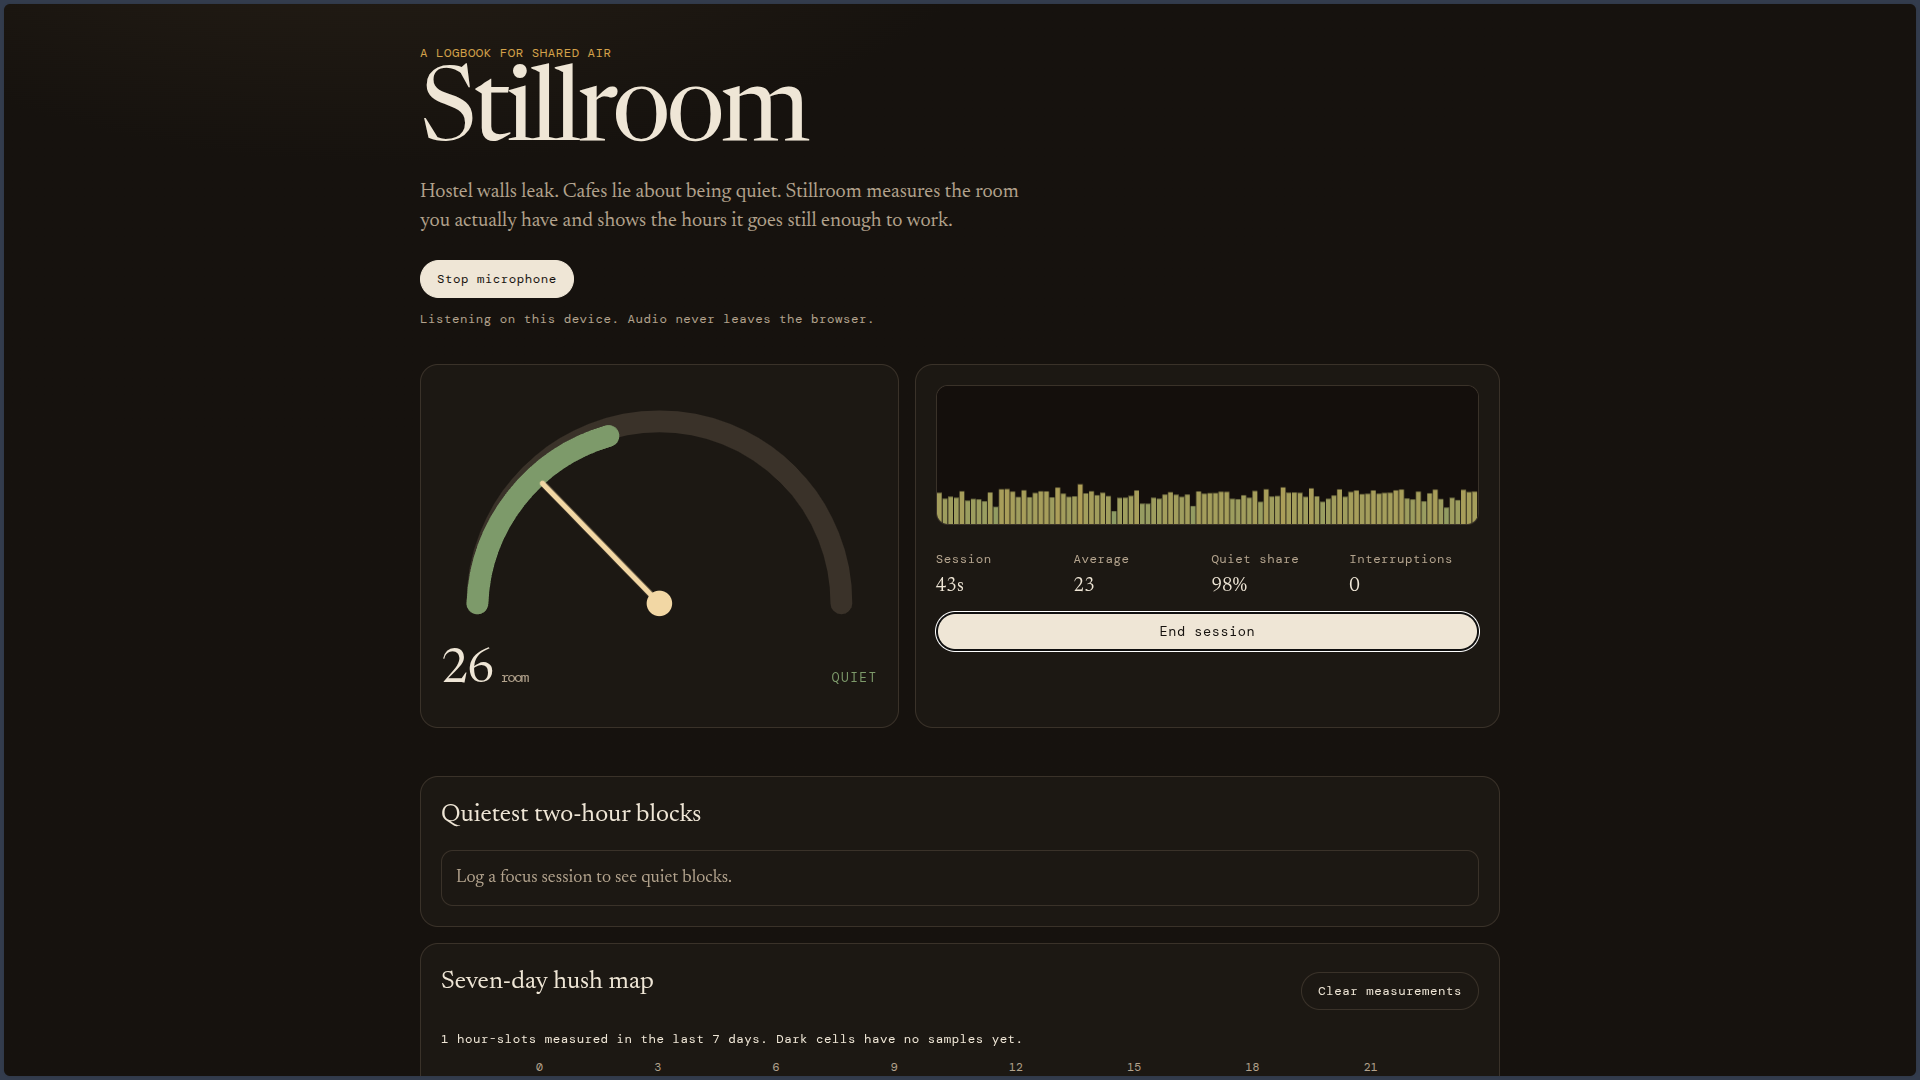
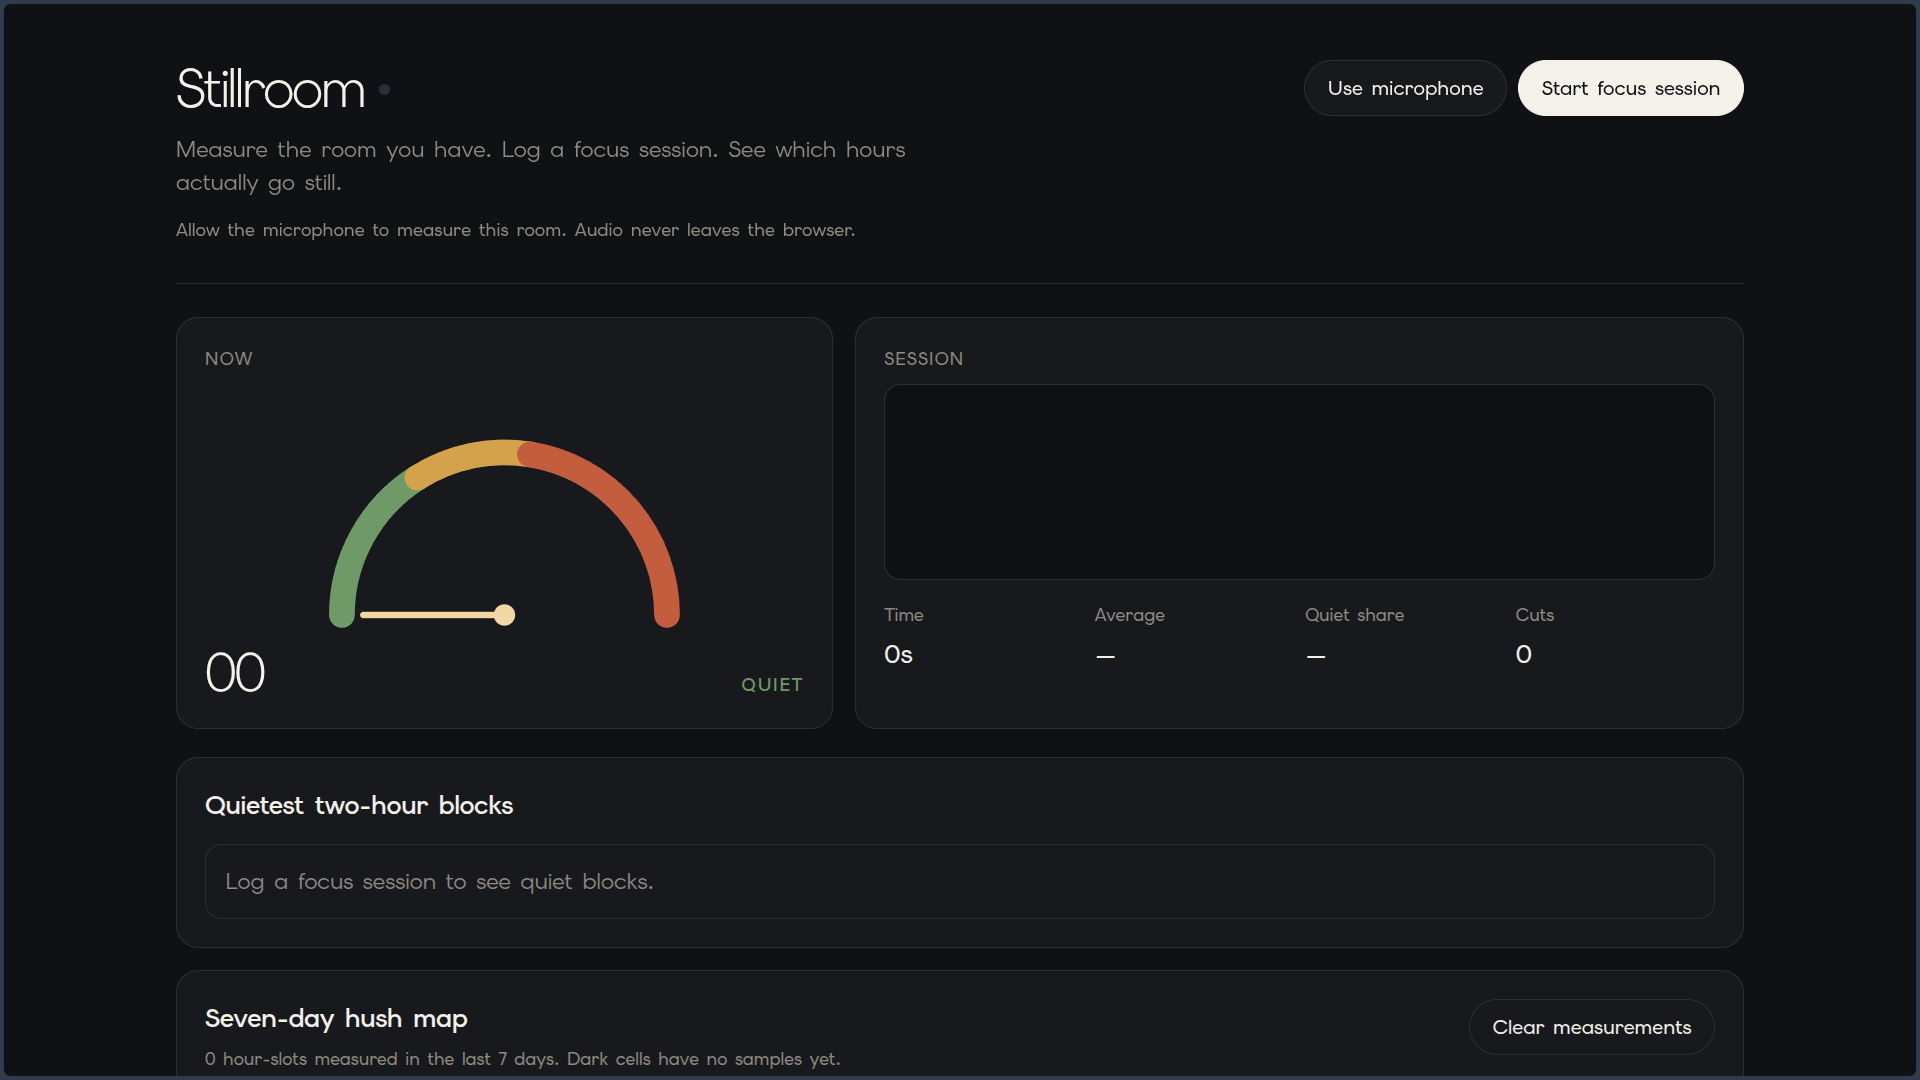
updates product images

diff --git a/README.md b/README.md
@@ -66,3 +66,5 @@ Devpost paste copy lives in [`DEVPOST.md`](DEVPOST.md).
 ![Stillroom home screen with meter, quiet windows, and seven-day hush map](docs/demo/stillroom-home.png)
 
 ![Stillroom during a focus session](docs/demo/stillroom-session.png)
+
+![Stillroom after logging a focus session](docs/demo/stillroom-after-session.png)
